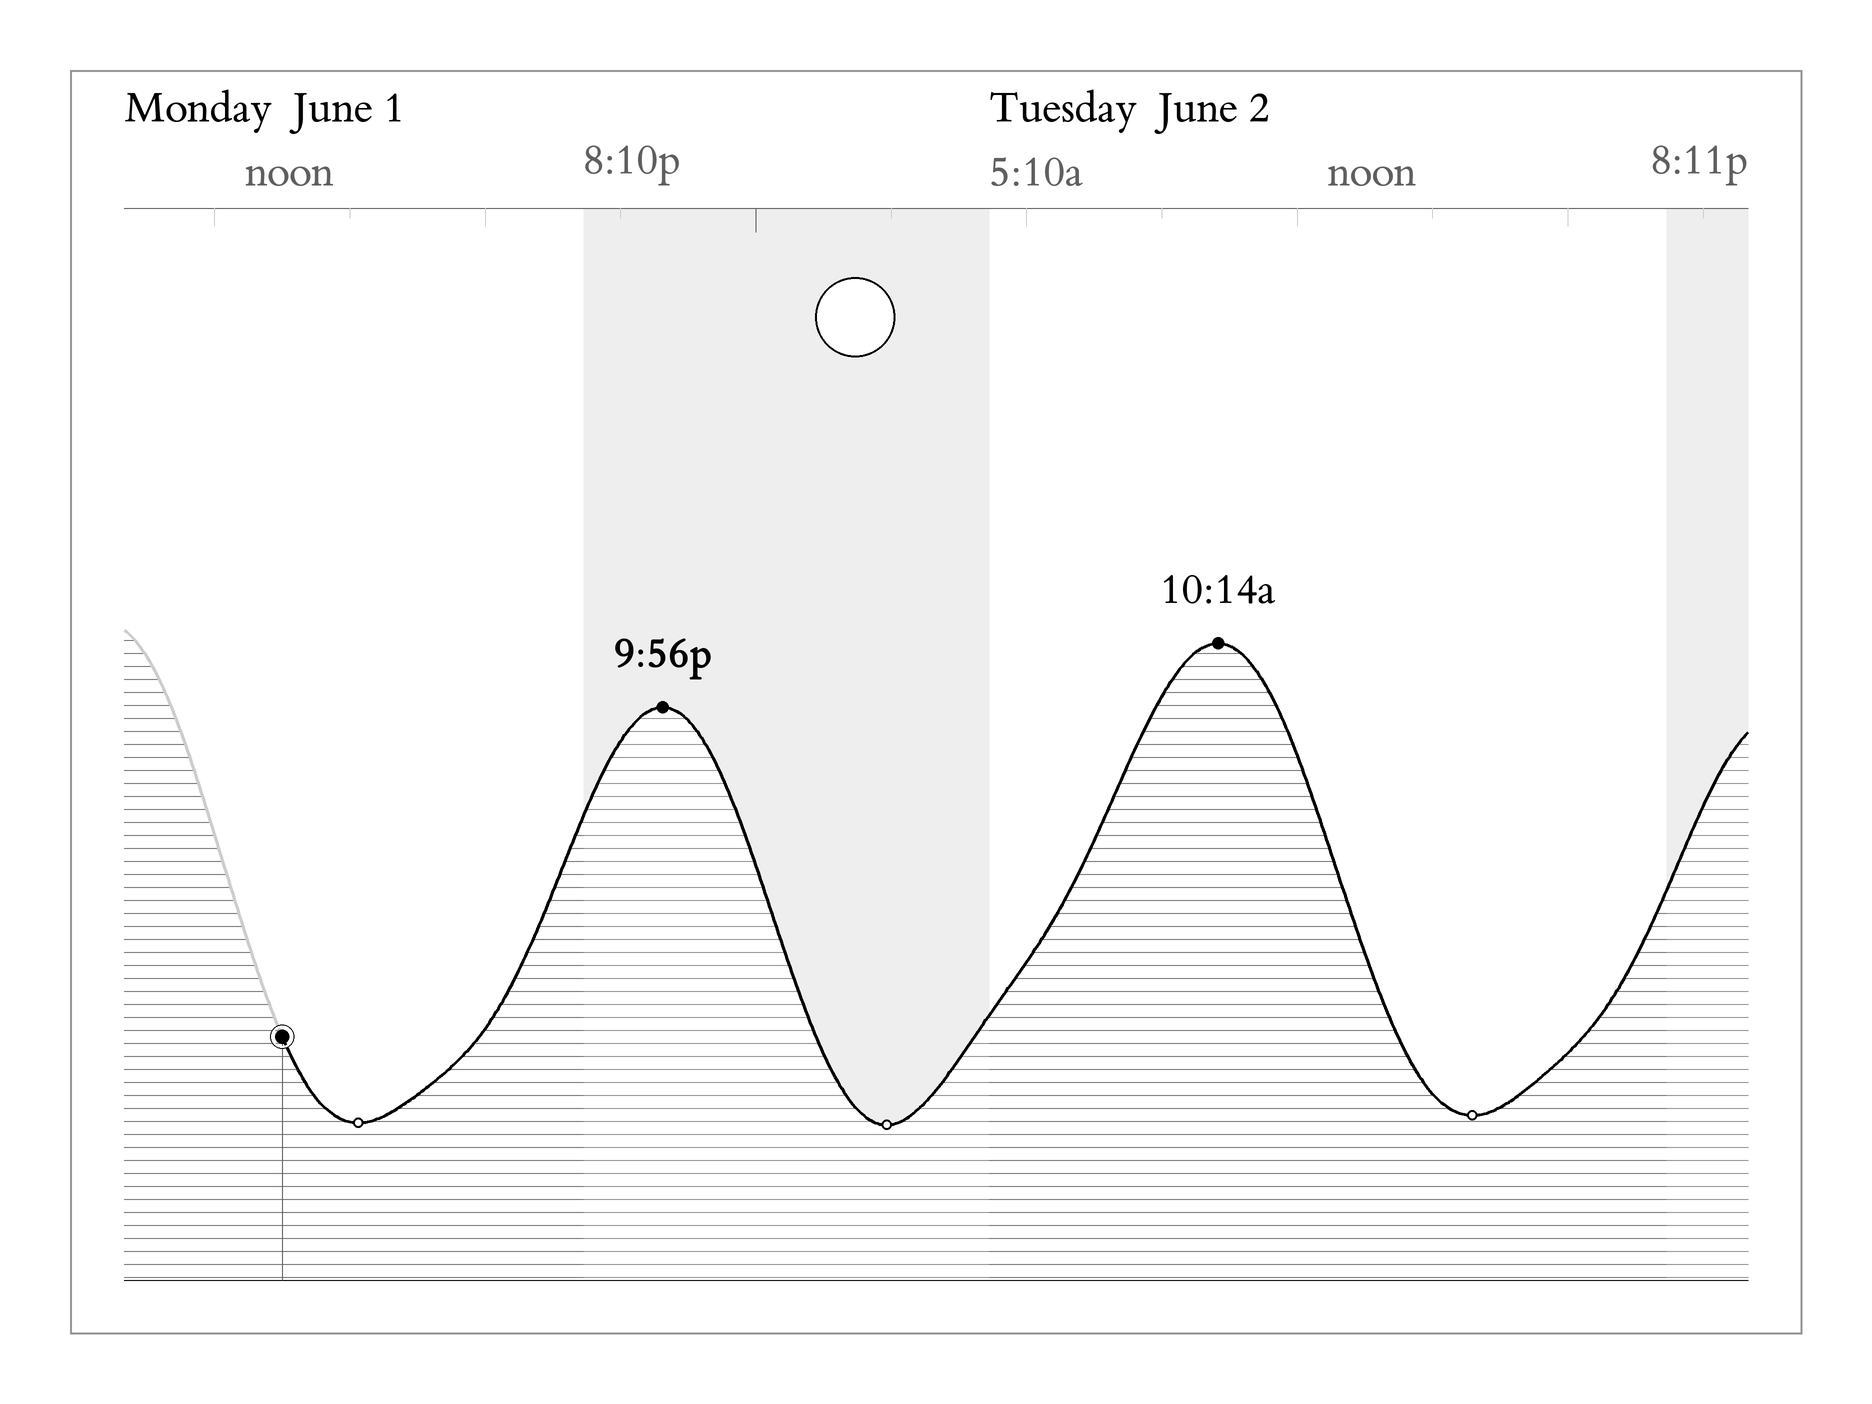
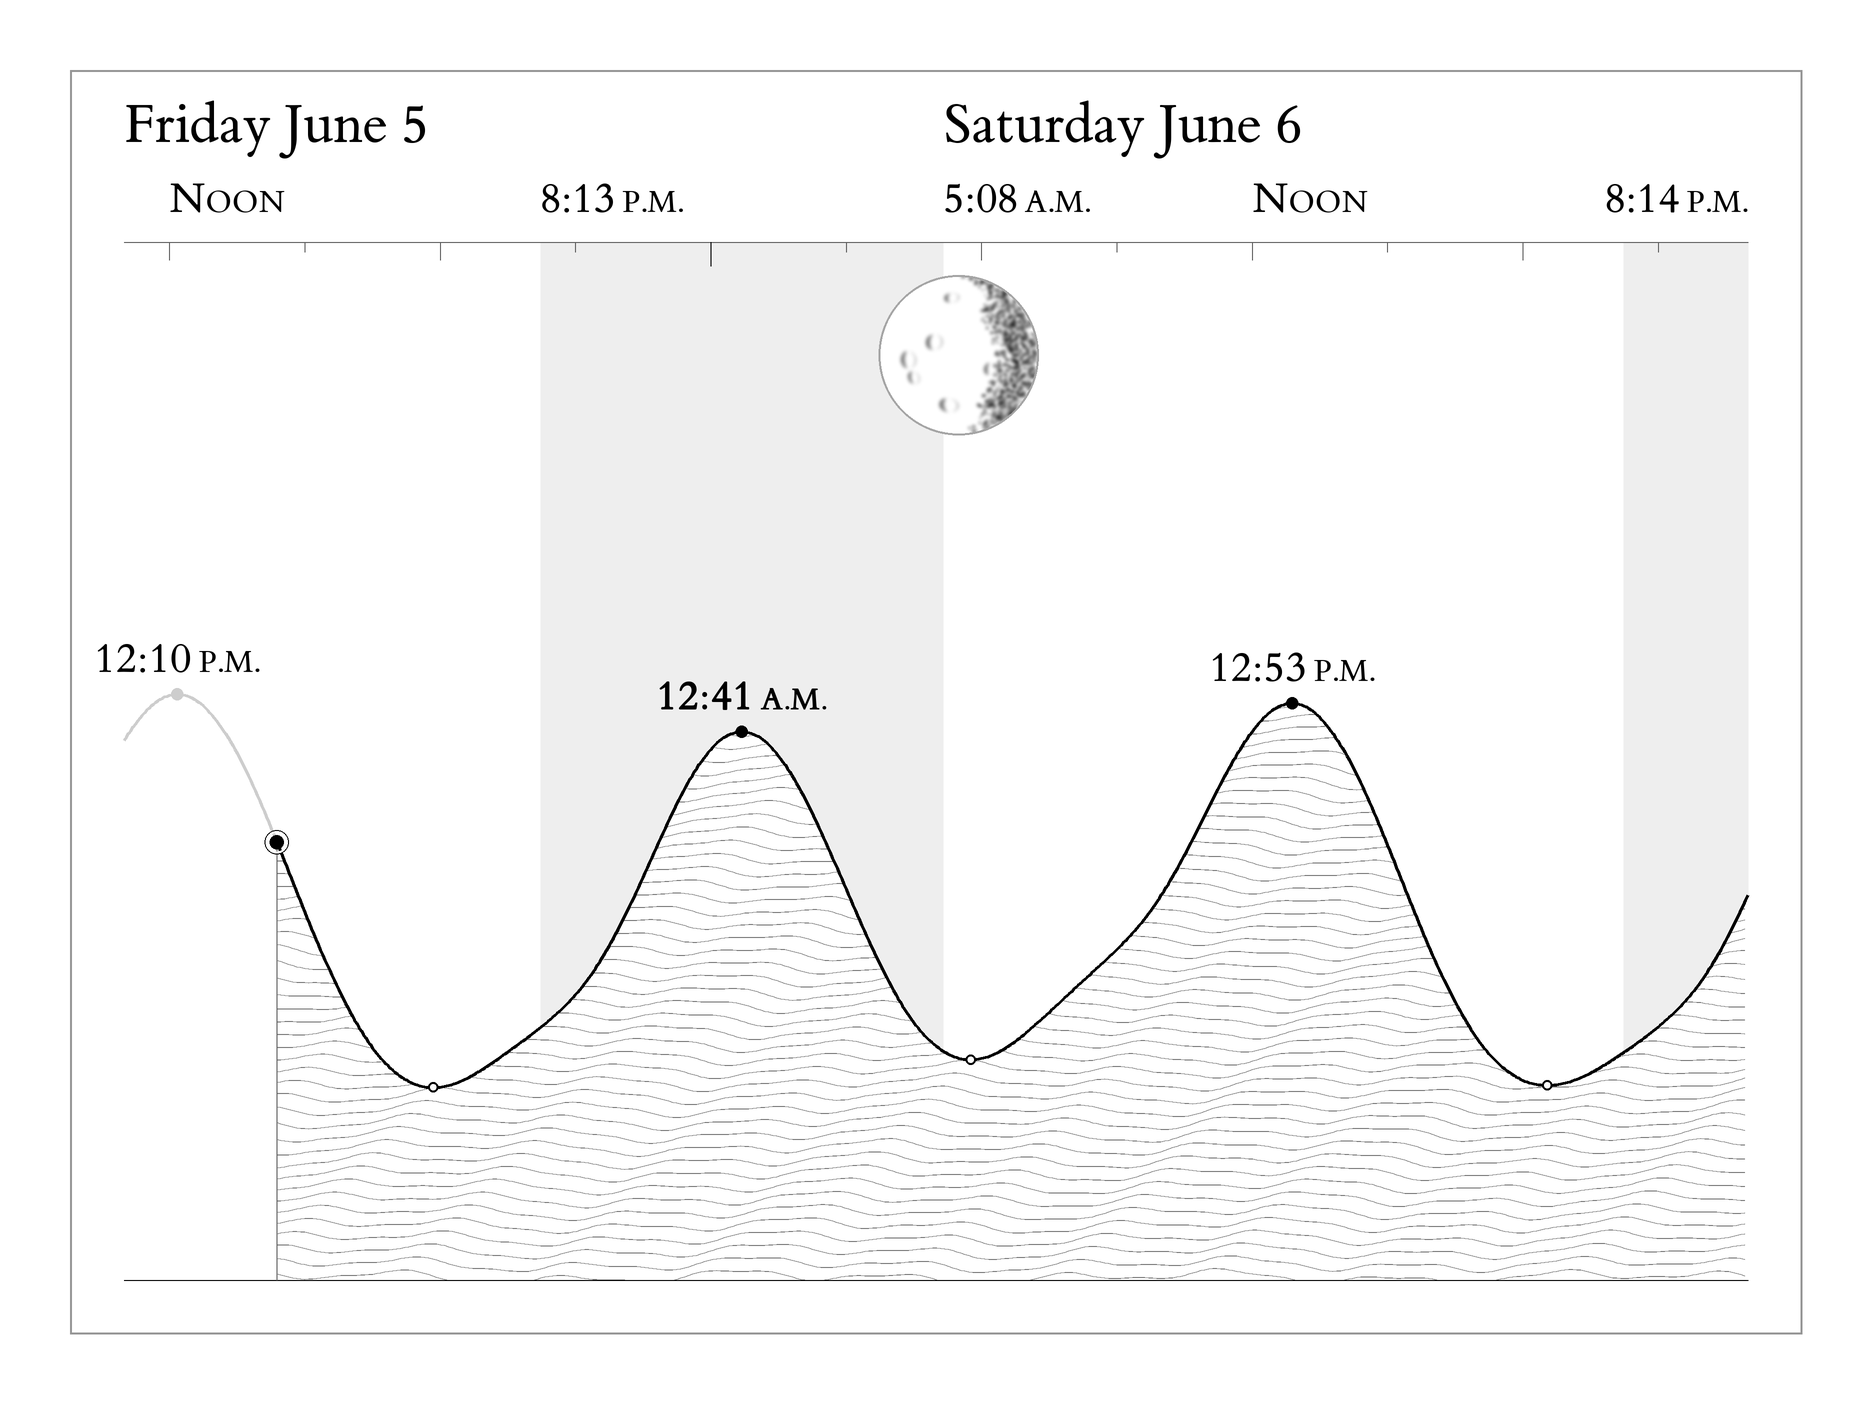
README: simplify and refresh sample image
Trim to the essentials: drop the swim-specific framing for a generic
one-liner, remove the Design section (the sample image carries it), and
condense the file tree and accuracy notes. Regenerate docs/sample.png
with the current renderer (ink-wash moon, wavy sea, Noon small-caps).

diff --git a/README.md b/README.md
@@ -1,83 +1,33 @@
 # Tidemark
 
-A clean, offline tide display for e-ink. Tidemark answers one question at a
-glance — *when is high tide, and is it during daylight?* — so you can plan the
-swim off the dock without checking a tide app.
+A clean, offline tide display for e-ink. One black tide line, a day/night band,
+directly-labeled highs and lows, and a true-phase moon — the next high tide and
+whether it falls in daylight, read at a glance.
 
-It runs on a Raspberry Pi driving a Waveshare 7.8" IT8951 e-ink panel, needs no
-internet, and is styled in the spirit of Edward Tufte: one black tide line, a
-slim day/night band, directly-labeled highs and lows, and a true-phase moon.
+It runs on a Raspberry Pi driving a Waveshare 7.8" IT8951 e-ink panel and needs
+no internet to render.
 
 ![A Tidemark render](docs/sample.png)
 
 ## How it works
 
 A small C host runs the display loop and pushes a bitmap to the panel (or to an
-SDL simulator on macOS). A Python program generates that bitmap:
+SDL simulator on macOS). A Python program generates that bitmap.
+
+Tide height is predicted from NOAA harmonic constituents, computing the
+equilibrium argument (V₀+u) and nodal factor (f) that real harmonic prediction
+needs — so it stays accurate with no network (validated against NOAA station
+8447368: ~3 min mean error on high-tide timing, ~0.17 m full-curve RMS). Sun and
+moon are likewise computed from first principles, correct for any date and
+location.
 
 ```
-src/python/
-  setup_location.py    One-command location setup (fetches a NOAA station)
-  config.py            Static knobs (window, units, weather); reads location.json
-  location.json        Active location (written by setup_location.py; optional)
-  data/
-    harmonics.py       Harmonic tide engine with full astronomical corrections
-    stations.py        Loads station records from data/stations/*.json
-    stations/          One JSON file per tide station (pure data)
-    tide.py            Tide curve + high/low extrema over a time window
-    sun.py             Sunrise/sunset/twilight (NOAA solar algorithm)
-    moon.py            Moon phase + rise/set + altitude arc
-    weather.py         Optional NWS forecast (temp/cloud/precip), offline-safe
-  render/
-    theme.py           Palette, fonts, geometry (e-ink friendly)
-    ribbon.py          The Tufte-style tide ribbon
-  main.py              Assembles data + renders the BMP
-src/c/                 Display host (main loop, refresh strategy, driver layer)
-sim/                   SDL2 simulator for desktop iteration
-lib/IT8951/            Waveshare driver (vendored)
-tests/                 unittest suite (tide math, astronomy, render smoke test)
+src/python/   Tide/sun/moon math + Pillow rendering → 8-bit BMP
+src/c/        Display host (main loop, refresh strategy, driver layer)
+sim/          SDL2 simulator for desktop iteration
+lib/IT8951/   Waveshare driver (vendored)
+tests/        unittest suite
 ```
-
-### Accurate tides, fully offline
-
-Tide height is predicted from NOAA harmonic constituents. The naïve model
-`height = MSL + Σ A·cos(speed·t + phase)` is wrong by *hours* because it omits
-the equilibrium argument (V₀+u) and nodal factor (f) that real harmonic
-prediction needs. `harmonics.py` computes those from the astronomical mean
-longitudes, so predictions are accurate with no network connection.
-
-Validated against NOAA station 8447368 (Great Hill):
-
-| metric | result |
-|---|---|
-| high-tide timing | ~3 min mean error (max 11 min) |
-| low-tide timing | flat troughs; heights within ~0.1 m |
-| full-curve RMS | ~0.17 m over a ~1.2 m range |
-| timing bias | ~0 |
-
-Sun and moon are likewise computed (no hardcoded tables): day length, moon
-phase, and moonrise/moonset are correct for any date and location.
-
-## Design
-
-Built for e-ink, where large mid-gray fills and fine texture cause ghosting and
-banding. So: white ground, a single black data line, a tiny restrained set of
-grays, direct labels, no boxes or heavy gridlines. The chart is rendered at 2×
-and downsampled for smooth anti-aliased lines. Daylight high tides sit on white;
-night ones sit on a faint gray wash — the swim answer, read at a glance.
-
-The canvas is split into a **sky panel** and a **sea panel** by a horizon line.
-The moon traces its real altitude arc across the sky — rising, transiting, and
-setting at the correct times and the correct height (a near-solstice full moon
-rides low; a winter moon climbs high) — with the phase glyph at its high point.
-
-### Optional weather (the only online piece)
-
-When enabled (`config.WEATHER_ENABLED`), the sky panel also shows an air-
-temperature line and a cloud-cover strip (with precip hatching) from the US
-National Weather Service. It is strictly additive and offline-safe: the
-forecast is cached to disk, refreshed only when stale, and simply omitted when
-there is no cache and no network. Tide, sun, and moon never touch the internet.
 
 ## Build & run
 
@@ -93,9 +43,8 @@ python3 src/python/main.py --output /tmp/tide.bmp
 python3 src/python/main.py --now 2026-05-30T14:23 --output /tmp/tide.bmp   # test a time
 ```
 
-The only Python dependency is **Pillow**. (`make venv` sets up a virtualenv.)
-
-Run the tests with `python3 -m unittest discover -s tests`.
+The only Python dependency is **Pillow**. Run the tests with
+`python3 -m unittest discover -s tests`.
 
 ## Configuring a location
 
@@ -108,12 +57,11 @@ python3 src/python/setup_location.py --near 33.34,-118.33   # nearest station
 python3 src/python/setup_location.py 9410079 --name "Avalon" --subtitle "Santa Catalina Island"
 ```
 
-Find your station id at <https://tidesandcurrents.noaa.gov> (search your area,
-then read the 7-digit id from the station page). Setup writes two files:
+Find your station id at <https://tidesandcurrents.noaa.gov>. Setup writes
 `data/stations/<id>.json` (the harmonic record) and `location.json` (the active
-selection that `config.py` reads). Network is needed only here, at setup;
-rendering stays fully offline. Window length, units, and the optional weather
-panel are static knobs in `config.py`.
+selection). Network is needed only here, at setup; rendering stays fully offline.
+Window length, units, and the optional weather panel are static knobs in
+`config.py`.
 
 **Outside the US?** NOAA covers the US and its territories. For other coasts,
 hand-write a `data/stations/<id>.json` by the same schema using published
